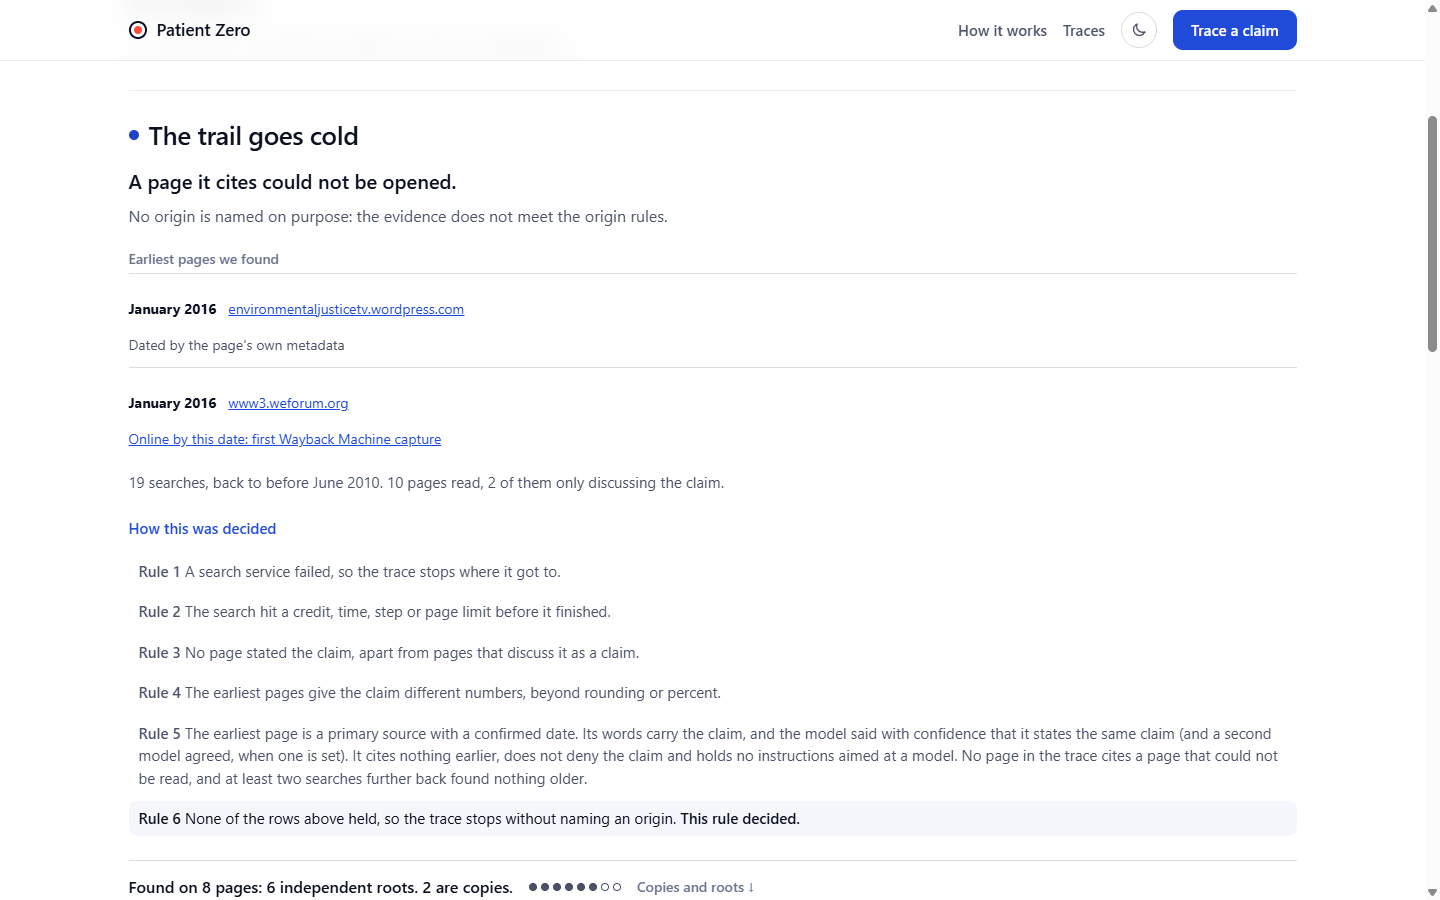
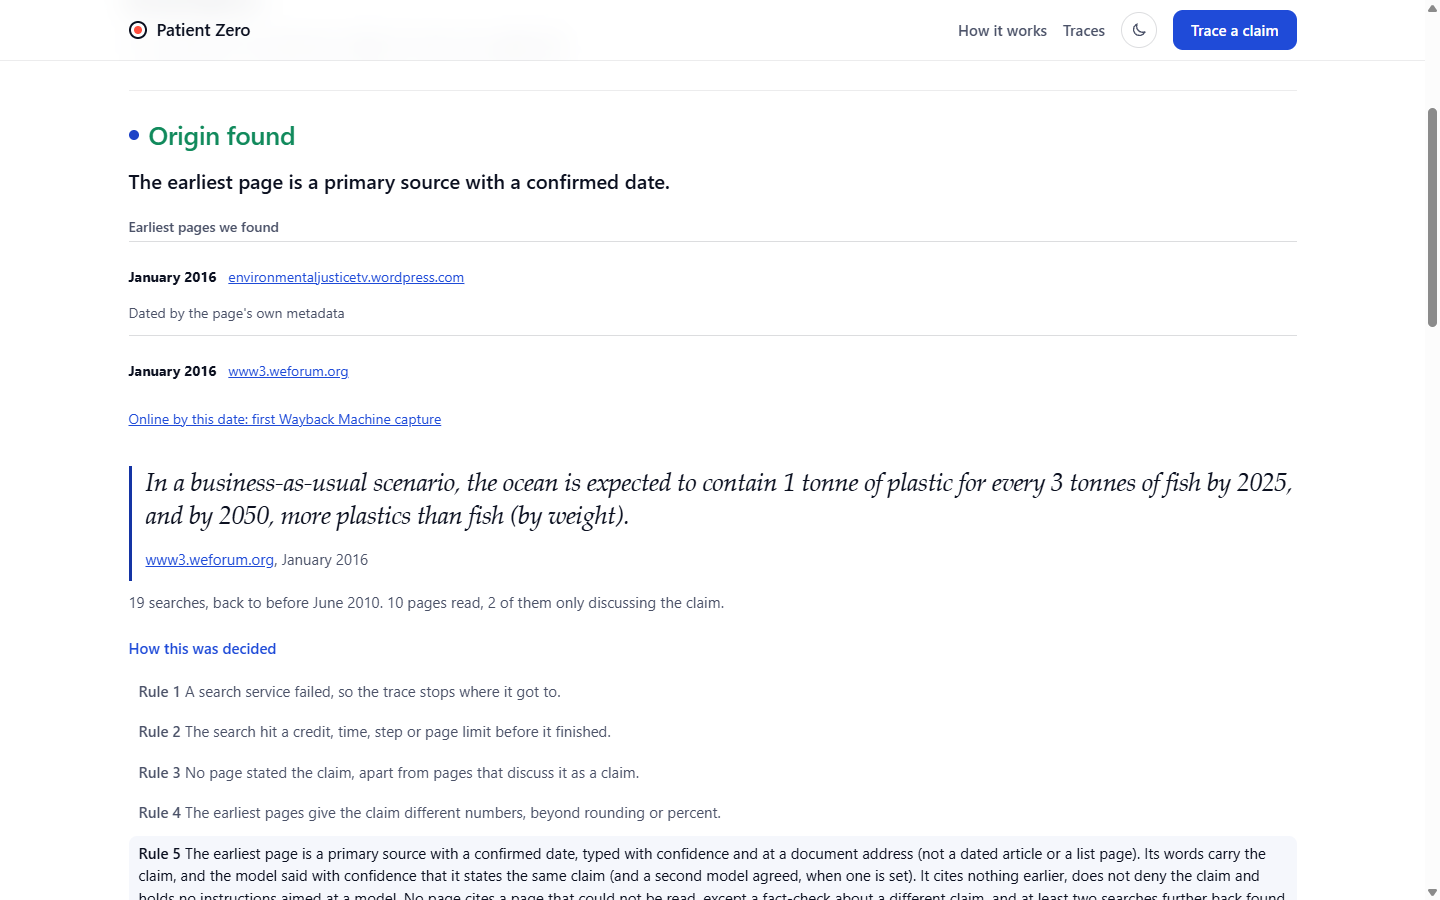
Video ending for dev-10's Origin found: demo script and storyboard S2, S5, S11 rewritten (re-approve: new ending), stills re-captured

diff --git a/docs/demo-script.md b/docs/demo-script.md
@@ -26,16 +26,16 @@ Vidyut approved the script on Nov 19. The live run that morning (#245) ends dev-
 | Time | Shot | On screen | Voice (draft) | Source | Ready? |
 |---|---|---|---|---|---|
 | 0:00 to 0:12 | S1, the contrast | A chatbot gives a confident answer to "By 2050 there will be more plastic than fish in the ocean" with a source link. We click it, and the page doesn't say that. **re-approve:** blur the tool's name and logo, so no product is named on screen (Vidyut's no competitor names rule). | "Ask a chatbot where a number comes from and it'll tell you. Click the source, though, and a lot of the time it says something else." | Captured from a chatbot on the day, on dev-10's claim | capture on the day; re-approve |
-| 0:12 to 0:20 | S2, the question | **re-approve:** the landing at https://patient-0.vercel.app: "Anyone can find you a source. Patient Zero shows you whether to trust it.", with dev-10's recorded walk playing on the right (January 2025 back to January 2016, ending "The trail goes cold", 8 pages, 6 roots, 2 copies). Paste "By 2050 there will be more plastic than fish in the ocean." into the claim box and press Enter; it opens the trace with "Matched a recorded trace, recorded November 19, 2026." and, under the claim, "Replayed from the recorded run of Nov 19, 2026 · run cost $0.145". | "So we built Patient Zero. Give it one claim, and it walks back through time to the earliest page it can find." | Live web app, claim box, REPLAY dev-10 | ready; re-approve |
+| 0:12 to 0:20 | S2, the question | **re-approve:** the landing at https://patient-0.vercel.app: "Anyone can find you a source. Patient Zero shows you whether to trust it.", with dev-10's recorded walk playing on the right (January 2025 back to January 2016, ending "Origin found", 8 pages, 6 roots, 2 copies; **re-approve: new ending (Vidyut approved)**). Paste "By 2050 there will be more plastic than fish in the ocean." into the claim box and press Enter; it opens the trace with "Matched a recorded trace, recorded November 19, 2026." and, under the claim, "Replayed from the recorded run of Nov 19, 2026 · run cost $0.145". | "So we built Patient Zero. Give it one claim, and it walks back through time to the earliest page it can find." | Live web app, claim box, REPLAY dev-10 | ready; re-approve |
 | 0:20 to 0:40 | S3, the walk | **re-approve:** the trace opens on its finished state, ending first. Press "Replay the walk" (top right): in Copies and roots, a panel reads "Replaying the recorded walk. Recorded November 19, 2026. The walk took 103 seconds. Shown faster." and lists each search with its window and result count and each page read with its date and what the model answered, while the root rows fill in. It runs about 8 s, so press "Replay the walk" a second time to fill the slot (or slow it and mark it "sped up"). | "This is a recorded run, step by step. Each search reaches further back in time, and each page it reads lands on the timeline with its date." **re-approve:** the pages now land in the copies and roots list, not on the timeline; suggested voice: "...and each page it reads lands in the list with its date." | Live web app walk replay | ready; re-approve |
 | 0:40 to 0:52 | S4, the time machine (hero shot) | **re-approve:** scroll to Follow the wording. Drag dev-10's slider back from its first stop (x.com, January 2025), through x.com (November 2024) and matadornetwork.com (January 2016, "Wording changed here"), to www3.weforum.org, January 2016, "exact match", with the report's own sentence as the headline: "In a business-as-usual scenario, the ocean is expected to contain 1 tonne of plastic for every 3 tonnes of fish by 2025, and by 2050, more plastics than fish (by weight)." Under it, How dated reads "Dated by the first Wayback Machine capture, 2016-01-20. Archived by this date; publication date is not established." The Earlier page and Newer page buttons step the same stops. | "Drag it back and you can watch the sentence change. It lands on January 2016, the earliest page it found: the World Economic Forum report, in its own words." | Live web app, Follow the wording | ready; re-approve |
-| 0:52 to 1:04 | S5, the citation | **re-approve:** on the WEF stop, which says "Earliest page we found." (the trace ends cold, not "Origin found"), click "Open the page". It opens the report PDF (https://www3.weforum.org/docs/WEF_The_New_Plastics_Economy.pdf); use the PDF viewer's find on "more plastics than fish". Optional: "Open the capture" next to How dated opens the first Wayback Machine capture of the same PDF, January 20, 2016. | "Click it. The words are right there in the report. It's the earliest page it found, and it doesn't call it the origin." | Browser on the WEF PDF | ready; re-approve |
+| 0:52 to 1:04 | S5, the citation | **re-approve:** on the WEF stop, which the ending names as the origin (**re-approve: new ending (Vidyut approved)**: "Origin found", the WEF report, January 2016), click "Open the page". It opens the report PDF (https://www3.weforum.org/docs/WEF_The_New_Plastics_Economy.pdf); use the PDF viewer's find on "more plastics than fish". Optional: "Open the capture" next to How dated opens the first Wayback Machine capture of the same PDF, January 20, 2016. | "Click it. The words are right there in the report: the earliest page it found, and the origin it names." **re-approve: new ending (Vidyut approved)** | Browser on the WEF PDF | ready; re-approve |
 | 1:04 to 1:16 | S6, a trail that goes cold | A second claim ends TRAIL GOES COLD. The card names the check that failed and the rule: "Decision table row 6 of 6". | "Sometimes there's no origin to find. It tells you that, and tells you why. The model never decides how a trace ends; the code does." | CLI card, `make replay TRACE=eval/dev-traces/dev-02.json` | ready |
 | 1:16 to 1:30 | S7, a whole AI answer | **re-approve:** the web page https://patient-0.vercel.app/#/answer instead of the terminal. It shows the recorded answer with its statistics underlined, the label "Recorded example, November 19, 2026. The answer was written for this demo. It is not a reply from any AI tool.", and "3 statistics: 3 went cold." Click **100** to open its trace ("Statistic 2 of 3 in the recorded answer: 100."). The page also says checking a new answer live runs from the command line only, so the voice's "paste a whole AI answer" stays true. The terminal shot below is the fallback: `node --import tsx packages/pz/src/cli/pz.ts trace --answer-replay-of fixtures/answers/s7-answer.json`. | "You can paste a whole AI answer, too. Each statistic gets its own trace, and the code does the counting. One sentence here holds two numbers, so it's traced twice." | #246 recording, replayed on the web (#266) | ready; re-approve |
 | 1:30 to 1:45 | S8, the score | The README Evaluation table: the E2 row (Nov 19: 0 false origins, target cited 4 of 10, earliest page right on 2, cold stops right on 6 of 9), then the held-out row. | "Before most of the engine was built, we set ten claims aside and locked them in with a hash." Then, **only after the held-out run:** "Here's how it did on them. Misses included." Until then: "On the claims we tune on, it named no false origins." | README Evaluation table (eval/dev-score.md) and the held-out readout (T67, #125) | E2 row ready; the held-out line waits for its run |
 | 1:45 to 1:55 | S9, checking it | `make verify` goes green with no keys. Then crop to the "== planted traps" block of `make judge` ("adversarial: planted origins 0 of 24 ..., planted by us"), with the rest of make judge cropped out. Then a forced Tavily 503 ends TOOL_FAILED: the one SAMPLE on screen, a written failure fixture, with its "SAMPLE an invented example, not a real search" line in frame. | "Anyone can check every trace with one command, no keys needed. And when a search breaks, it says the search broke. It doesn't make up an answer." | Terminal: `make verify`, `make judge` (traps block), `make replay TRACE=fixtures/failure/traces/failure-tavily-503.json` | ready, cropped |
 | 1:55 to 2:05 | S10, who decides | The "How it works" diagram from the README, with Token Factory and Tavily named on it | "The model answers the small questions. The code makes the call. And every link between two pages rests on a sentence quoted from each." | README diagram (#154) | ready |
-| 2:05 to 2:15 | S11, close | **re-approve:** back to the top of dev-10's trace: "The ending: The trail goes cold", "A page it cites could not be opened." and "No origin is named on purpose". Earliest pages we found now lists two January 2016 pages: environmentaljusticetv.wordpress.com (dated by the page's own metadata) and www3.weforum.org (online by this date: first Wayback Machine capture). Open "How this was decided": Rule 6 is marked "This rule decided." Then the repo link and the live app link. | "It found the report, and it still won't call it the origin while a page it cites is unread. That's Patient Zero, from team Says Who, built on Nebius Token Factory and Tavily." | Live web app, dev-10 REPLAY; repo URL; https://patient-0.vercel.app (the replay-only Pages site, https://vs-githjk.github.io/odsc-nebius-hackathon/, is the backup) | ready; re-approve |
+| 2:05 to 2:15 | S11, close | **re-approve:** **re-approve: new ending (Vidyut approved)**: back to the top of dev-10's trace: "Origin found" and "The earliest page is a primary source with a confirmed date." Earliest pages we found lists two January 2016 pages: environmentaljusticetv.wordpress.com (dated by the page's own metadata) and www3.weforum.org (online by this date: first Wayback Machine capture), then the WEF report's own sentence. Open "How this was decided": Rule 5 is marked "This rule decided." The cold ending stays in the video on dev-02 (S6). Then the repo link and the live app link. | "It walked the number back to the report it came from, and every step can be checked. When the trail runs out, it says so. That's Patient Zero, from team Says Who, built on Nebius Token Factory and Tavily." **re-approve: new ending (Vidyut approved)** | Live web app, dev-10 REPLAY; repo URL; https://patient-0.vercel.app (the replay-only Pages site, https://vs-githjk.github.io/odsc-nebius-hackathon/, is the backup) | ready; re-approve |
 
 ### Backup: version B (dev-11)
 

diff --git a/docs/storyboard/README.md b/docs/storyboard/README.md
@@ -23,22 +23,23 @@ This is a shot-by-shot storyboard of the approved script in [docs/demo-script.md
 | Shot | Time (length) | Still | On screen | Voice |
 |---|---|---|---|---|
 | **S1** the contrast | 0:00 to 0:12 (12 s) | *Captured on the day*: a chatbot's answer to dev-10's claim, then its source link opened. | A confident chatbot answer with a source link. The click lands on a page that doesn't say it. The tool's name and logo are blurred. | "Ask a chatbot where a number comes from and it'll tell you. Click the source, though, and a lot of the time it says something else." |
-| **S2** the question | 0:12 to 0:20 (8 s) | ![S2a](stills/S2a-landing.png) ![S2b](stills/S2b-claim-pasted.png) ![S2c](stills/S2c-trace-opens.png) | The landing: "Anyone can find you a source. Patient Zero shows you whether to trust it.", with dev-10's recorded walk on the right ending "The trail goes cold" and "8 pages, 6 roots, 2 copies". Paste "By 2050 there will be more plastic than fish in the ocean." and press Enter. The trace opens with "Matched a recorded trace" and the replay line under the claim. | "So we built Patient Zero. Give it one claim, and it walks back through time to the earliest page it can find." |
+| **S2** the question | 0:12 to 0:20 (8 s) | ![S2a](stills/S2a-landing.png) ![S2b](stills/S2b-claim-pasted.png) ![S2c](stills/S2c-trace-opens.png) | The landing: "Anyone can find you a source. Patient Zero shows you whether to trust it.", with dev-10's recorded walk on the right ending "Origin found" and "8 pages, 6 roots, 2 copies" (**re-approve: new ending (Vidyut approved)**). Paste "By 2050 there will be more plastic than fish in the ocean." and press Enter. The trace opens with "Matched a recorded trace" and the replay line under the claim. | "So we built Patient Zero. Give it one claim, and it walks back through time to the earliest page it can find." |
 | **S3** the walk | 0:20 to 0:40 (20 s) | ![S3](stills/S3-replay.png) | Press "Replay the walk". In Copies and roots: "Replaying the recorded walk. Recorded November 19, 2026. The walk took 103 seconds. Shown faster." Each search scrolls by with its date window and result count while the root rows fill in. The replay runs about 8 s, so press it twice, or slow it and mark it "sped up". | "This is a recorded run, step by step. Each search reaches further back in time, and each page it reads lands in the list with its date." **re-approve** (was "...lands on the timeline...") |
 | **S4** the time machine | 0:40 to 0:52 (12 s) | ![S4a](stills/S4a-first-stop.png) ![S4b](stills/S4b-wef-stop.png) | Follow the wording: drag the slider back from x.com (January 2025) through "Wording changed here" to www3.weforum.org, January 2016, "exact match". The WEF report's own sentence is the headline. How dated: "Dated by the first Wayback Machine capture, 2016-01-20. Archived by this date; publication date is not established." | "Drag it back and you can watch the sentence change. It lands on January 2016, the earliest page it found: the World Economic Forum report, in its own words." |
-| **S5** the citation | 0:52 to 1:04 (12 s) | ![S5](stills/S5-citation-links.png) | On the WEF stop, click "Open the page". The report PDF opens, and the PDF viewer's find highlights "more plastics than fish". Optionally, "Open the capture" shows the January 20, 2016 Wayback copy. *The PDF frame is filmed on the day, because a headless browser can't show the PDF viewer.* | "Click it. The words are right there in the report. It's the earliest page it found, and it doesn't call it the origin." |
+| **S5** the citation | 0:52 to 1:04 (12 s) | ![S5](stills/S5-citation-links.png) | On the WEF stop, click "Open the page". The report PDF opens, and the PDF viewer's find highlights "more plastics than fish". Optionally, "Open the capture" shows the January 20, 2016 Wayback copy. *The PDF frame is filmed on the day, because a headless browser can't show the PDF viewer.* | "Click it. The words are right there in the report: the earliest page it found, and the origin it names." **re-approve: new ending (Vidyut approved)** |
 | **S6** a trail that goes cold | 1:04 to 1:16 (12 s) | ![S6](stills/S6-cold-card.png) | The CLI card from `make replay TRACE=eval/dev-traces/dev-02.json`: "Trail goes cold", "A page it cites could not be opened.", "Decision table row 6 of 6." | "Sometimes there's no origin to find. It tells you that, and tells you why. The model never decides how a trace ends; the code does." |
 | **S7** a whole AI answer | 1:16 to 1:30 (14 s) | ![S7a](stills/S7a-answer.png) ![S7b](stills/S7b-statistic-trace.png) | https://patient-0.vercel.app/#/answer: the recorded answer with its statistics underlined, labelled "Recorded example, November 19, 2026. The answer was written for this demo. It is not a reply from any AI tool." and "3 statistics: 3 went cold." Click **100** to open its trace. | "You can paste a whole AI answer, too. Each statistic gets its own trace, and the code does the counting. One sentence here holds two numbers, so it's traced twice." **Note:** live answers run from the command line only (XO, #257). The page says so in frame, or the voice adds "(from the command line)". |
 | **S8** the score | 1:30 to 1:45 (15 s) | ![S8](stills/S8-readme-score.png) | The README Evaluation table: the E2 row (Nov 19: false origins 0, target cited 4/10, earliest 2 Pass, cold stops 6/9), then the held-out row. Crop off everything below the table. | "Before most of the engine was built, we set ten claims aside and locked them in with a hash." Then, **only after the held-out run**: "Here's how it did on them. Misses included." Until then: "On the claims we tune on, it named no false origins." |
 | **S9** checking it | 1:45 to 1:55 (10 s) | ![S9a](stills/S9a-verify-traps.png) ![S9b](stills/S9b-tool-failed.png) | `make verify` passes with no keys. Then crop to the "== planted traps" block of `make judge`: "wrong origins 0 of 10 ... planted by us" and "adversarial: planted origins 0 of 24 ... planted by us". Then `make replay TRACE=fixtures/failure/traces/failure-tavily-503.json` ends "A tool failed", with "SAMPLE an invented example, not a real search" in frame. | "Anyone can check every trace with one command, no keys needed. And when a search breaks, it says the search broke. It doesn't make up an answer." |
 | **S10** who decides | 1:55 to 2:05 (10 s) | ![S10](stills/S10-readme-diagram.png) | The README "How it works" diagram, cropped to the diagram, with Token Factory and Tavily named on its boxes. GitHub renders it small, so film it with the diagram's own zoom control (the + button at its top right), two steps in, panning from "Paste a claim" to "card and trace view". | "The model answers the small questions. The code makes the call. And every link between two pages rests on a sentence quoted from each." |
-| **S11** close | 2:05 to 2:15 (10 s) | ![S11](stills/S11-ending-rule.png) | Back at the top of dev-10: "The trail goes cold", "A page it cites could not be opened.", "No origin is named on purpose". The earliest pages are environmentaljusticetv.wordpress.com and www3.weforum.org, both January 2016. "How this was decided" is open, with Rule 6 marked "This rule decided." End card: the repo link and https://patient-0.vercel.app. | "It found the report, and it still won't call it the origin while a page it cites is unread. That's Patient Zero, from team Says Who, built on Nebius Token Factory and Tavily." |
+| **S11** close | 2:05 to 2:15 (10 s) | ![S11](stills/S11-ending-rule.png) | **re-approve: new ending (Vidyut approved)**: back at the top of dev-10: "Origin found", "The earliest page is a primary source with a confirmed date.", the earliest pages (environmentaljusticetv.wordpress.com and www3.weforum.org, both January 2016) and the WEF report's own sentence. "How this was decided" is open, with Rule 5 marked "This rule decided." The cold ending stays in the video on dev-02 (S6). End card: the repo link and https://patient-0.vercel.app. | "It walked the number back to the report it came from, and every step can be checked. When the trail runs out, it says so. That's Patient Zero, from team Says Who, built on Nebius Token Factory and Tavily." **re-approve: new ending (Vidyut approved)** |
 
 Total: 12 + 8 + 20 + 12 + 12 + 12 + 14 + 15 + 10 + 10 + 10 = 135 s (2:15).
 
 ## Open items for Vidyut
 
 1. **Re-approve lines:** S3's voice tweak ("lands in the list"), plus the screen descriptions the script marks re-approve.
-2. **S7 voice:** keep "paste a whole AI answer" with the page's "command line only" note in frame, or add "(from the command line)" to the voice?
-3. **S8:** the held-out line is "pending" in the README until Rohan's held-out run lands. Use the fallback voice line until then.
-4. **S1 and S5** are filmed on the day: the chatbot capture, and the WEF PDF in a real browser.
+2. **New ending (#310):** dev-10 now ends "Origin found" on the WEF report, January 2016. S2, S5 and S11 are rewritten for it, with new voice lines for S5 and S11, marked "re-approve: new ending (Vidyut approved)". The stills S2a, S2c, S3, S4b and S11 are re-captured from the live site after the change.
+3. **S7 voice:** keep "paste a whole AI answer" with the page's "command line only" note in frame, or add "(from the command line)" to the voice?
+4. **S8:** the held-out line is "pending" in the README until Rohan's held-out run lands. Use the fallback voice line until then.
+5. **S1 and S5** are filmed on the day: the chatbot capture, and the WEF PDF in a real browser.
